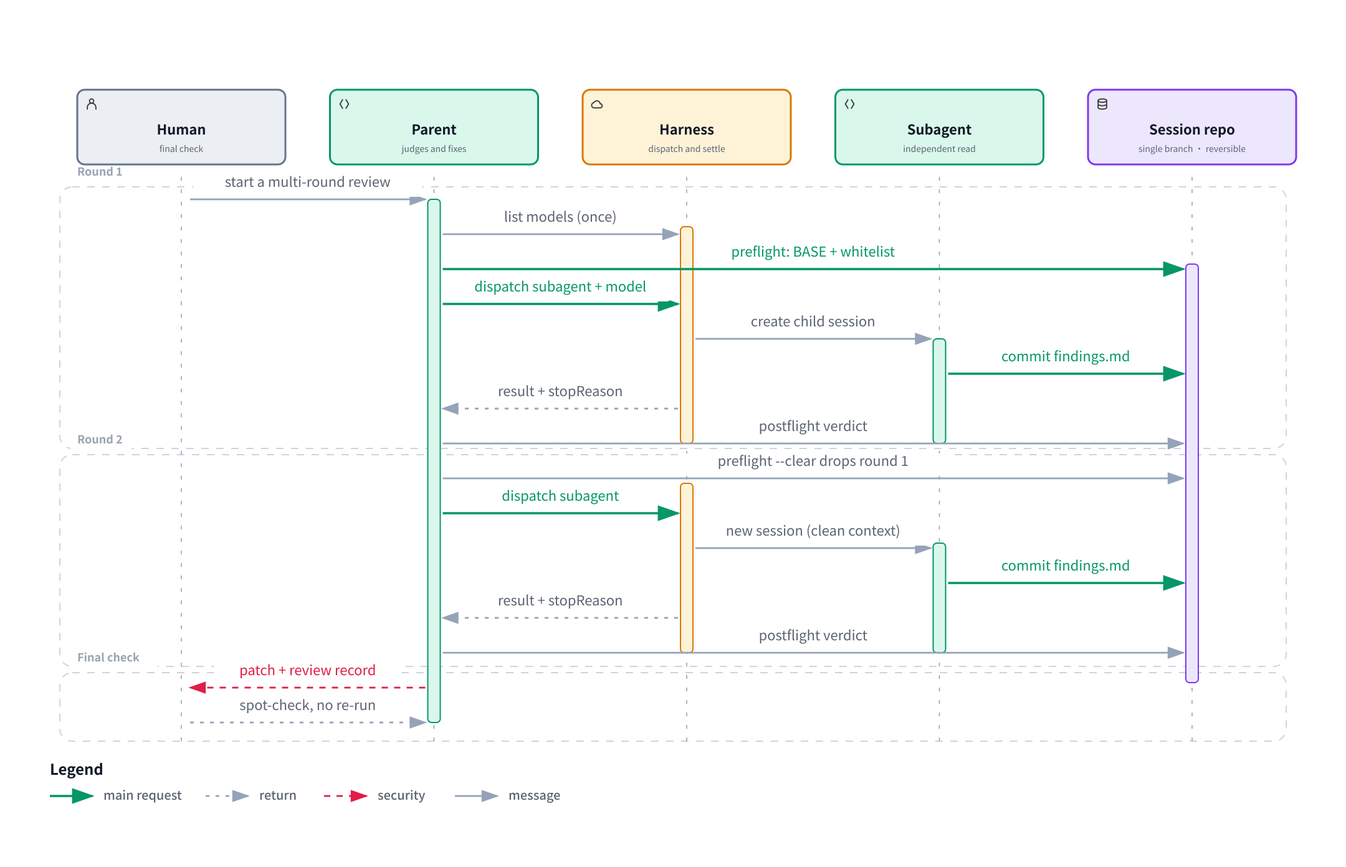
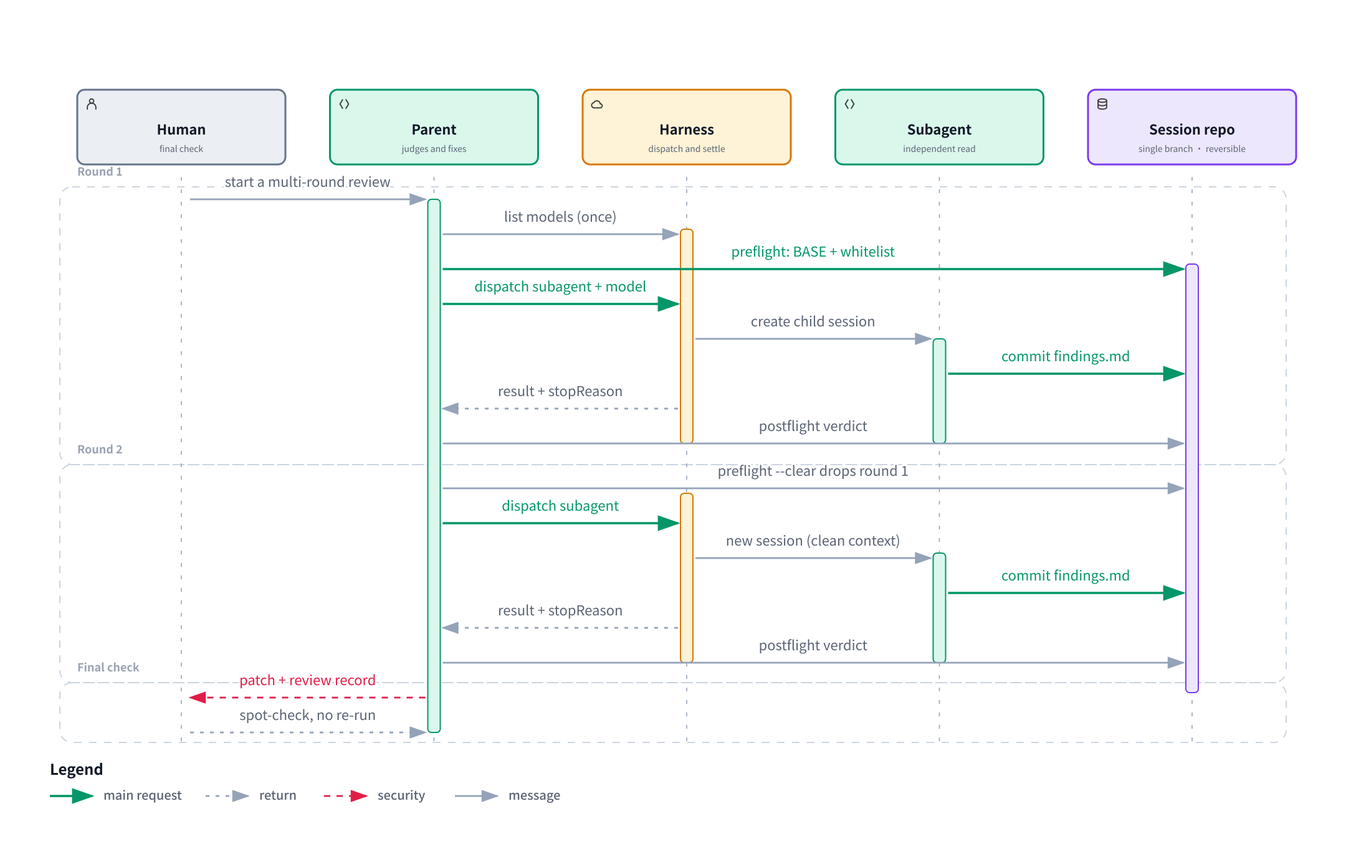
docs: keep multi-round labels clear of the segment borders
One shared boundary between lanes instead of two parallel dashes, and the
clear step moved below the boundary. Label masks are replaced by a text
halo so the dashed lifelines are no longer clipped into rectangles.

diff --git a/docs/flow-multi-zh.html b/docs/flow-multi-zh.html
@@ -5014,11 +5014,11 @@ OTHER DEALINGS IN THE FONT SOFTWARE.
         <rect width="100%" height="100%" fill="url(#grid)" />
 
         <!-- Time Segments -->
-        <rect data-graph-role="structural-frame" data-composition-frame-kind="segment" data-composition-frame-id="0" x="48" y="150" width="984" height="210" rx="10" class="c-lane" stroke-width="1"/>
+        <rect data-graph-role="structural-frame" data-composition-frame-kind="segment" data-composition-frame-id="0" x="48" y="150" width="984" height="223" rx="10" class="c-lane" stroke-width="1"/>
 
-        <rect data-graph-role="structural-frame" data-composition-frame-kind="segment" data-composition-frame-id="1" x="48" y="365" width="984" height="170" rx="10" class="c-lane" stroke-width="1"/>
+        <rect data-graph-role="structural-frame" data-composition-frame-kind="segment" data-composition-frame-id="1" x="48" y="373" width="984" height="175" rx="10" class="c-lane" stroke-width="1"/>
 
-        <rect data-graph-role="structural-frame" data-composition-frame-kind="segment" data-composition-frame-id="2" x="48" y="540" width="984" height="55" rx="10" class="c-lane" stroke-width="1"/>
+        <rect data-graph-role="structural-frame" data-composition-frame-kind="segment" data-composition-frame-id="2" x="48" y="548" width="984" height="48" rx="10" class="c-lane" stroke-width="1"/>
 
         <!-- Lifelines -->
         <path d="M 145.5 142 L 145.5 600" class="a-default" stroke-width="0.8" stroke-dasharray="3,7"/>
@@ -5028,18 +5028,18 @@ OTHER DEALINGS IN THE FONT SOFTWARE.
         <path d="M 956.5 142 L 956.5 600" class="a-default" stroke-width="0.8" stroke-dasharray="3,7"/>
 
         <!-- Activations -->
-        <rect x="343.25" y="160" width="10" height="420" rx="3" class="c-mask"/>
-        <rect x="343.25" y="160" width="10" height="420" rx="3" class="c-backend" stroke-width="1"/>
-        <rect x="546" y="182" width="10" height="174" rx="3" class="c-mask"/>
-        <rect x="546" y="182" width="10" height="174" rx="3" class="c-cloud" stroke-width="1"/>
-        <rect x="546" y="388" width="10" height="136" rx="3" class="c-mask"/>
-        <rect x="546" y="388" width="10" height="136" rx="3" class="c-cloud" stroke-width="1"/>
+        <rect x="343.25" y="160" width="10" height="428" rx="3" class="c-mask"/>
+        <rect x="343.25" y="160" width="10" height="428" rx="3" class="c-backend" stroke-width="1"/>
+        <rect x="546" y="184" width="10" height="172" rx="3" class="c-mask"/>
+        <rect x="546" y="184" width="10" height="172" rx="3" class="c-cloud" stroke-width="1"/>
+        <rect x="546" y="396" width="10" height="136" rx="3" class="c-mask"/>
+        <rect x="546" y="396" width="10" height="136" rx="3" class="c-cloud" stroke-width="1"/>
         <rect x="748.75" y="272" width="10" height="84" rx="3" class="c-mask"/>
         <rect x="748.75" y="272" width="10" height="84" rx="3" class="c-backend" stroke-width="1"/>
-        <rect x="748.75" y="436" width="10" height="88" rx="3" class="c-mask"/>
-        <rect x="748.75" y="436" width="10" height="88" rx="3" class="c-backend" stroke-width="1"/>
-        <rect x="951.5" y="212" width="10" height="336" rx="3" class="c-mask"/>
-        <rect x="951.5" y="212" width="10" height="336" rx="3" class="c-database" stroke-width="1"/>
+        <rect x="748.75" y="444" width="10" height="88" rx="3" class="c-mask"/>
+        <rect x="748.75" y="444" width="10" height="88" rx="3" class="c-backend" stroke-width="1"/>
+        <rect x="951.5" y="212" width="10" height="344" rx="3" class="c-mask"/>
+        <rect x="951.5" y="212" width="10" height="344" rx="3" class="c-database" stroke-width="1"/>
 
         <!-- Messages -->
         <g data-edge-from="human" data-edge-to="parent" data-edge-label="提任务：多轮审查" data-edge-key="0" data-edge-id="kickoff">
@@ -5107,66 +5107,66 @@ OTHER DEALINGS IN THE FONT SOFTWARE.
         </g>
 
         <g data-edge-from="parent" data-edge-to="repo" data-edge-label="preflight --clear：清掉上一轮" data-edge-key="8" data-edge-id="clear">
-          <path data-composition-edge-from="parent" data-composition-edge-to="repo" data-composition-edge-id="clear" data-composition-points="355.25,384;949.5,384" d="M 355.25 384 L 949.5 384" class="a-default" stroke-width="1.4" marker-end="url(#arrowhead)"/>
+          <path data-composition-edge-from="parent" data-composition-edge-to="repo" data-composition-edge-id="clear" data-composition-points="355.25,392;949.5,392" d="M 355.25 392 L 949.5 392" class="a-default" stroke-width="1.4" marker-end="url(#arrowhead)"/>
         <g data-detail="context">
-          <rect x="550.675" y="364" width="203.39999999999998" height="18" rx="3" class="c-mask"/>
-          <text x="652.375" y="374" class="t-muted" font-size="11" text-anchor="middle">preflight --clear：清掉上一轮</text>
+          <rect x="550.675" y="372" width="203.39999999999998" height="18" rx="3" class="c-mask"/>
+          <text x="652.375" y="382" class="t-muted" font-size="11" text-anchor="middle">preflight --clear：清掉上一轮</text>
         </g>
         </g>
 
         <g data-edge-from="parent" data-edge-to="harness" data-edge-label="派发 subagent" data-edge-key="9" data-edge-id="dispatch-2">
-          <path data-composition-edge-from="parent" data-composition-edge-to="harness" data-composition-edge-id="dispatch-2" data-composition-points="355.25,412;544,412" d="M 355.25 412 L 544 412" class="a-emphasis" stroke-width="1.8" marker-end="url(#arrowhead-emphasis)"/>
+          <path data-composition-edge-from="parent" data-composition-edge-to="harness" data-composition-edge-id="dispatch-2" data-composition-points="355.25,420;544,420" d="M 355.25 420 L 544 420" class="a-emphasis" stroke-width="1.8" marker-end="url(#arrowhead-emphasis)"/>
         <g data-detail="context">
-          <rect x="400.725" y="392" width="97.8" height="18" rx="3" class="c-mask"/>
-          <text x="449.625" y="402" class="t-edge-emphasis" font-size="11" text-anchor="middle">派发 subagent</text>
+          <rect x="400.725" y="400" width="97.8" height="18" rx="3" class="c-mask"/>
+          <text x="449.625" y="410" class="t-edge-emphasis" font-size="11" text-anchor="middle">派发 subagent</text>
         </g>
         </g>
 
         <g data-edge-from="harness" data-edge-to="child" data-edge-label="新子会话（干净上下文）" data-edge-key="10" data-edge-id="session-2">
-          <path data-composition-edge-from="harness" data-composition-edge-to="child" data-composition-edge-id="session-2" data-composition-points="558,440;746.75,440" d="M 558 440 L 746.75 440" class="a-default" stroke-width="1.4" marker-end="url(#arrowhead)"/>
+          <path data-composition-edge-from="harness" data-composition-edge-to="child" data-composition-edge-id="session-2" data-composition-points="558,448;746.75,448" d="M 558 448 L 746.75 448" class="a-default" stroke-width="1.4" marker-end="url(#arrowhead)"/>
         <g data-detail="context">
-          <rect x="573.775" y="420" width="157.2" height="18" rx="3" class="c-mask"/>
-          <text x="652.375" y="430" class="t-muted" font-size="11" text-anchor="middle">新子会话（干净上下文）</text>
+          <rect x="573.775" y="428" width="157.2" height="18" rx="3" class="c-mask"/>
+          <text x="652.375" y="438" class="t-muted" font-size="11" text-anchor="middle">新子会话（干净上下文）</text>
         </g>
         </g>
 
         <g data-edge-from="child" data-edge-to="repo" data-edge-label="提交 findings.md" data-edge-key="11" data-edge-id="commit-2">
-          <path data-composition-edge-from="child" data-composition-edge-to="repo" data-composition-edge-id="commit-2" data-composition-points="760.75,468;949.5,468" d="M 760.75 468 L 949.5 468" class="a-emphasis" stroke-width="1.8" marker-end="url(#arrowhead-emphasis)"/>
+          <path data-composition-edge-from="child" data-composition-edge-to="repo" data-composition-edge-id="commit-2" data-composition-points="760.75,476;949.5,476" d="M 760.75 476 L 949.5 476" class="a-emphasis" stroke-width="1.8" marker-end="url(#arrowhead-emphasis)"/>
         <g data-detail="context">
-          <rect x="796.325" y="448" width="117.6" height="18" rx="3" class="c-mask"/>
-          <text x="855.125" y="458" class="t-edge-emphasis" font-size="11" text-anchor="middle">提交 findings.md</text>
+          <rect x="796.325" y="456" width="117.6" height="18" rx="3" class="c-mask"/>
+          <text x="855.125" y="466" class="t-edge-emphasis" font-size="11" text-anchor="middle">提交 findings.md</text>
         </g>
         </g>
 
         <g data-edge-from="harness" data-edge-to="parent" data-edge-label="结果 + stopReason" data-edge-key="12" data-edge-id="settled-2">
-          <path data-composition-edge-from="harness" data-composition-edge-to="parent" data-composition-edge-id="settled-2" data-composition-points="544,496;355.25,496" d="M 544 496 L 355.25 496" class="a-default" stroke-width="1.4" stroke-dasharray="3,5" marker-end="url(#arrowhead)"/>
+          <path data-composition-edge-from="harness" data-composition-edge-to="parent" data-composition-edge-id="settled-2" data-composition-points="544,504;355.25,504" d="M 544 504 L 355.25 504" class="a-default" stroke-width="1.4" stroke-dasharray="3,5" marker-end="url(#arrowhead)"/>
         <g data-detail="context">
-          <rect x="387.525" y="476" width="124.19999999999999" height="18" rx="3" class="c-mask"/>
-          <text x="449.625" y="486" class="t-muted" font-size="11" text-anchor="middle">结果 + stopReason</text>
+          <rect x="387.525" y="484" width="124.19999999999999" height="18" rx="3" class="c-mask"/>
+          <text x="449.625" y="494" class="t-muted" font-size="11" text-anchor="middle">结果 + stopReason</text>
         </g>
         </g>
 
         <g data-edge-from="parent" data-edge-to="repo" data-edge-label="postflight 判定" data-edge-key="13" data-edge-id="postflight-2">
-          <path data-composition-edge-from="parent" data-composition-edge-to="repo" data-composition-edge-id="postflight-2" data-composition-points="355.25,524;949.5,524" d="M 355.25 524 L 949.5 524" class="a-default" stroke-width="1.4" marker-end="url(#arrowhead)"/>
+          <path data-composition-edge-from="parent" data-composition-edge-to="repo" data-composition-edge-id="postflight-2" data-composition-points="355.25,532;949.5,532" d="M 355.25 532 L 949.5 532" class="a-default" stroke-width="1.4" marker-end="url(#arrowhead)"/>
         <g data-detail="context">
-          <rect x="596.875" y="504" width="111" height="18" rx="3" class="c-mask"/>
-          <text x="652.375" y="514" class="t-muted" font-size="11" text-anchor="middle">postflight 判定</text>
+          <rect x="596.875" y="512" width="111" height="18" rx="3" class="c-mask"/>
+          <text x="652.375" y="522" class="t-muted" font-size="11" text-anchor="middle">postflight 判定</text>
         </g>
         </g>
 
         <g data-edge-from="parent" data-edge-to="human" data-edge-label="交付：patch + 审查记录" data-edge-key="14" data-edge-id="handoff">
-          <path data-composition-edge-from="parent" data-composition-edge-to="human" data-composition-edge-id="handoff" data-composition-points="341.25,552;152.5,552" d="M 341.25 552 L 152.5 552" class="a-security" stroke-width="1.4" marker-end="url(#arrowhead-security)"/>
+          <path data-composition-edge-from="parent" data-composition-edge-to="human" data-composition-edge-id="handoff" data-composition-points="341.25,560;152.5,560" d="M 341.25 560 L 152.5 560" class="a-security" stroke-width="1.4" marker-end="url(#arrowhead-security)"/>
         <g data-detail="context">
-          <rect x="168.275" y="532" width="157.2" height="18" rx="3" class="c-mask"/>
-          <text x="246.875" y="542" class="t-edge-security" font-size="11" text-anchor="middle">交付：patch + 审查记录</text>
+          <rect x="168.275" y="540" width="157.2" height="18" rx="3" class="c-mask"/>
+          <text x="246.875" y="550" class="t-edge-security" font-size="11" text-anchor="middle">交付：patch + 审查记录</text>
         </g>
         </g>
 
         <g data-edge-from="human" data-edge-to="parent" data-edge-label="抽样复核，不重跑" data-edge-key="15" data-edge-id="review">
-          <path data-composition-edge-from="human" data-composition-edge-to="parent" data-composition-edge-id="review" data-composition-points="152.5,580;341.25,580" d="M 152.5 580 L 341.25 580" class="a-default" stroke-width="1.4" stroke-dasharray="3,5" marker-end="url(#arrowhead)"/>
+          <path data-composition-edge-from="human" data-composition-edge-to="parent" data-composition-edge-id="review" data-composition-points="152.5,588;341.25,588" d="M 152.5 588 L 341.25 588" class="a-default" stroke-width="1.4" stroke-dasharray="3,5" marker-end="url(#arrowhead)"/>
         <g data-detail="context">
-          <rect x="188.075" y="560" width="117.6" height="18" rx="3" class="c-mask"/>
-          <text x="246.875" y="570" class="t-muted" font-size="11" text-anchor="middle">抽样复核，不重跑</text>
+          <rect x="188.075" y="568" width="117.6" height="18" rx="3" class="c-mask"/>
+          <text x="246.875" y="578" class="t-muted" font-size="11" text-anchor="middle">抽样复核，不重跑</text>
         </g>
         </g>
 
@@ -5176,12 +5176,12 @@ OTHER DEALINGS IN THE FONT SOFTWARE.
           <text x="62" y="141" class="t-dim" font-size="9" font-weight="600">第 1 轮</text>
         </g>
         <g data-graph-role="segment-label" data-segment-id="1">
-          <rect x="56" y="343" width="50.4" height="18" rx="3" class="c-mask"/>
-          <text x="62" y="356" class="t-dim" font-size="9" font-weight="600">第 2 轮</text>
+          <rect x="56" y="351" width="50.4" height="18" rx="3" class="c-mask"/>
+          <text x="62" y="364" class="t-dim" font-size="9" font-weight="600">第 2 轮</text>
         </g>
         <g data-graph-role="segment-label" data-segment-id="2">
-          <rect x="56" y="518" width="55.6" height="18" rx="3" class="c-mask"/>
-          <text x="62" y="531" class="t-dim" font-size="9" font-weight="600">回来复核</text>
+          <rect x="56" y="526" width="55.6" height="18" rx="3" class="c-mask"/>
+          <text x="62" y="539" class="t-dim" font-size="9" font-weight="600">回来复核</text>
         </g>
 
         <!-- Participants -->

diff --git a/docs/flow-multi-en.html b/docs/flow-multi-en.html
@@ -5014,11 +5014,11 @@ OTHER DEALINGS IN THE FONT SOFTWARE.
         <rect width="100%" height="100%" fill="url(#grid)" />
 
         <!-- Time Segments -->
-        <rect data-graph-role="structural-frame" data-composition-frame-kind="segment" data-composition-frame-id="0" x="48" y="150" width="984" height="210" rx="10" class="c-lane" stroke-width="1"/>
+        <rect data-graph-role="structural-frame" data-composition-frame-kind="segment" data-composition-frame-id="0" x="48" y="150" width="984" height="223" rx="10" class="c-lane" stroke-width="1"/>
 
-        <rect data-graph-role="structural-frame" data-composition-frame-kind="segment" data-composition-frame-id="1" x="48" y="365" width="984" height="170" rx="10" class="c-lane" stroke-width="1"/>
+        <rect data-graph-role="structural-frame" data-composition-frame-kind="segment" data-composition-frame-id="1" x="48" y="373" width="984" height="175" rx="10" class="c-lane" stroke-width="1"/>
 
-        <rect data-graph-role="structural-frame" data-composition-frame-kind="segment" data-composition-frame-id="2" x="48" y="540" width="984" height="55" rx="10" class="c-lane" stroke-width="1"/>
+        <rect data-graph-role="structural-frame" data-composition-frame-kind="segment" data-composition-frame-id="2" x="48" y="548" width="984" height="48" rx="10" class="c-lane" stroke-width="1"/>
 
         <!-- Lifelines -->
         <path d="M 145.5 142 L 145.5 600" class="a-default" stroke-width="0.8" stroke-dasharray="3,7"/>
@@ -5028,18 +5028,18 @@ OTHER DEALINGS IN THE FONT SOFTWARE.
         <path d="M 956.5 142 L 956.5 600" class="a-default" stroke-width="0.8" stroke-dasharray="3,7"/>
 
         <!-- Activations -->
-        <rect x="343.25" y="160" width="10" height="420" rx="3" class="c-mask"/>
-        <rect x="343.25" y="160" width="10" height="420" rx="3" class="c-backend" stroke-width="1"/>
-        <rect x="546" y="182" width="10" height="174" rx="3" class="c-mask"/>
-        <rect x="546" y="182" width="10" height="174" rx="3" class="c-cloud" stroke-width="1"/>
-        <rect x="546" y="388" width="10" height="136" rx="3" class="c-mask"/>
-        <rect x="546" y="388" width="10" height="136" rx="3" class="c-cloud" stroke-width="1"/>
+        <rect x="343.25" y="160" width="10" height="428" rx="3" class="c-mask"/>
+        <rect x="343.25" y="160" width="10" height="428" rx="3" class="c-backend" stroke-width="1"/>
+        <rect x="546" y="184" width="10" height="172" rx="3" class="c-mask"/>
+        <rect x="546" y="184" width="10" height="172" rx="3" class="c-cloud" stroke-width="1"/>
+        <rect x="546" y="396" width="10" height="136" rx="3" class="c-mask"/>
+        <rect x="546" y="396" width="10" height="136" rx="3" class="c-cloud" stroke-width="1"/>
         <rect x="748.75" y="272" width="10" height="84" rx="3" class="c-mask"/>
         <rect x="748.75" y="272" width="10" height="84" rx="3" class="c-backend" stroke-width="1"/>
-        <rect x="748.75" y="436" width="10" height="88" rx="3" class="c-mask"/>
-        <rect x="748.75" y="436" width="10" height="88" rx="3" class="c-backend" stroke-width="1"/>
-        <rect x="951.5" y="212" width="10" height="336" rx="3" class="c-mask"/>
-        <rect x="951.5" y="212" width="10" height="336" rx="3" class="c-database" stroke-width="1"/>
+        <rect x="748.75" y="444" width="10" height="88" rx="3" class="c-mask"/>
+        <rect x="748.75" y="444" width="10" height="88" rx="3" class="c-backend" stroke-width="1"/>
+        <rect x="951.5" y="212" width="10" height="344" rx="3" class="c-mask"/>
+        <rect x="951.5" y="212" width="10" height="344" rx="3" class="c-database" stroke-width="1"/>
 
         <!-- Messages -->
         <g data-edge-from="human" data-edge-to="parent" data-edge-label="start a multi-round review" data-edge-key="0" data-edge-id="kickoff">
@@ -5107,66 +5107,66 @@ OTHER DEALINGS IN THE FONT SOFTWARE.
         </g>
 
         <g data-edge-from="parent" data-edge-to="repo" data-edge-label="preflight --clear drops round 1" data-edge-key="8" data-edge-id="clear">
-          <path data-composition-edge-from="parent" data-composition-edge-to="repo" data-composition-edge-id="clear" data-composition-points="355.25,384;949.5,384" d="M 355.25 384 L 949.5 384" class="a-default" stroke-width="1.4" marker-end="url(#arrowhead)"/>
+          <path data-composition-edge-from="parent" data-composition-edge-to="repo" data-composition-edge-id="clear" data-composition-points="355.25,392;949.5,392" d="M 355.25 392 L 949.5 392" class="a-default" stroke-width="1.4" marker-end="url(#arrowhead)"/>
         <g data-detail="context">
-          <rect x="544.075" y="364" width="216.6" height="18" rx="3" class="c-mask"/>
-          <text x="652.375" y="374" class="t-muted" font-size="11" text-anchor="middle">preflight --clear drops round 1</text>
+          <rect x="544.075" y="372" width="216.6" height="18" rx="3" class="c-mask"/>
+          <text x="652.375" y="382" class="t-muted" font-size="11" text-anchor="middle">preflight --clear drops round 1</text>
         </g>
         </g>
 
         <g data-edge-from="parent" data-edge-to="harness" data-edge-label="dispatch subagent" data-edge-key="9" data-edge-id="dispatch-2">
-          <path data-composition-edge-from="parent" data-composition-edge-to="harness" data-composition-edge-id="dispatch-2" data-composition-points="355.25,412;544,412" d="M 355.25 412 L 544 412" class="a-emphasis" stroke-width="1.8" marker-end="url(#arrowhead-emphasis)"/>
+          <path data-composition-edge-from="parent" data-composition-edge-to="harness" data-composition-edge-id="dispatch-2" data-composition-points="355.25,420;544,420" d="M 355.25 420 L 544 420" class="a-emphasis" stroke-width="1.8" marker-end="url(#arrowhead-emphasis)"/>
         <g data-detail="context">
-          <rect x="387.525" y="392" width="124.19999999999999" height="18" rx="3" class="c-mask"/>
-          <text x="449.625" y="402" class="t-edge-emphasis" font-size="11" text-anchor="middle">dispatch subagent</text>
+          <rect x="387.525" y="400" width="124.19999999999999" height="18" rx="3" class="c-mask"/>
+          <text x="449.625" y="410" class="t-edge-emphasis" font-size="11" text-anchor="middle">dispatch subagent</text>
         </g>
         </g>
 
         <g data-edge-from="harness" data-edge-to="child" data-edge-label="new session (clean context)" data-edge-key="10" data-edge-id="session-2">
-          <path data-composition-edge-from="harness" data-composition-edge-to="child" data-composition-edge-id="session-2" data-composition-points="558,440;746.75,440" d="M 558 440 L 746.75 440" class="a-default" stroke-width="1.4" marker-end="url(#arrowhead)"/>
+          <path data-composition-edge-from="harness" data-composition-edge-to="child" data-composition-edge-id="session-2" data-composition-points="558,448;746.75,448" d="M 558 448 L 746.75 448" class="a-default" stroke-width="1.4" marker-end="url(#arrowhead)"/>
         <g data-detail="context">
-          <rect x="557.275" y="420" width="190.2" height="18" rx="3" class="c-mask"/>
-          <text x="652.375" y="430" class="t-muted" font-size="11" text-anchor="middle">new session (clean context)</text>
+          <rect x="557.275" y="428" width="190.2" height="18" rx="3" class="c-mask"/>
+          <text x="652.375" y="438" class="t-muted" font-size="11" text-anchor="middle">new session (clean context)</text>
         </g>
         </g>
 
         <g data-edge-from="child" data-edge-to="repo" data-edge-label="commit findings.md" data-edge-key="11" data-edge-id="commit-2">
-          <path data-composition-edge-from="child" data-composition-edge-to="repo" data-composition-edge-id="commit-2" data-composition-points="760.75,468;949.5,468" d="M 760.75 468 L 949.5 468" class="a-emphasis" stroke-width="1.8" marker-end="url(#arrowhead-emphasis)"/>
+          <path data-composition-edge-from="child" data-composition-edge-to="repo" data-composition-edge-id="commit-2" data-composition-points="760.75,476;949.5,476" d="M 760.75 476 L 949.5 476" class="a-emphasis" stroke-width="1.8" marker-end="url(#arrowhead-emphasis)"/>
         <g data-detail="context">
-          <rect x="789.725" y="448" width="130.8" height="18" rx="3" class="c-mask"/>
-          <text x="855.125" y="458" class="t-edge-emphasis" font-size="11" text-anchor="middle">commit findings.md</text>
+          <rect x="789.725" y="456" width="130.8" height="18" rx="3" class="c-mask"/>
+          <text x="855.125" y="466" class="t-edge-emphasis" font-size="11" text-anchor="middle">commit findings.md</text>
         </g>
         </g>
 
         <g data-edge-from="harness" data-edge-to="parent" data-edge-label="result + stopReason" data-edge-key="12" data-edge-id="settled-2">
-          <path data-composition-edge-from="harness" data-composition-edge-to="parent" data-composition-edge-id="settled-2" data-composition-points="544,496;355.25,496" d="M 544 496 L 355.25 496" class="a-default" stroke-width="1.4" stroke-dasharray="3,5" marker-end="url(#arrowhead)"/>
+          <path data-composition-edge-from="harness" data-composition-edge-to="parent" data-composition-edge-id="settled-2" data-composition-points="544,504;355.25,504" d="M 544 504 L 355.25 504" class="a-default" stroke-width="1.4" stroke-dasharray="3,5" marker-end="url(#arrowhead)"/>
         <g data-detail="context">
-          <rect x="380.925" y="476" width="137.39999999999998" height="18" rx="3" class="c-mask"/>
-          <text x="449.625" y="486" class="t-muted" font-size="11" text-anchor="middle">result + stopReason</text>
+          <rect x="380.925" y="484" width="137.39999999999998" height="18" rx="3" class="c-mask"/>
+          <text x="449.625" y="494" class="t-muted" font-size="11" text-anchor="middle">result + stopReason</text>
         </g>
         </g>
 
         <g data-edge-from="parent" data-edge-to="repo" data-edge-label="postflight verdict" data-edge-key="13" data-edge-id="postflight-2">
-          <path data-composition-edge-from="parent" data-composition-edge-to="repo" data-composition-edge-id="postflight-2" data-composition-points="355.25,524;949.5,524" d="M 355.25 524 L 949.5 524" class="a-default" stroke-width="1.4" marker-end="url(#arrowhead)"/>
+          <path data-composition-edge-from="parent" data-composition-edge-to="repo" data-composition-edge-id="postflight-2" data-composition-points="355.25,532;949.5,532" d="M 355.25 532 L 949.5 532" class="a-default" stroke-width="1.4" marker-end="url(#arrowhead)"/>
         <g data-detail="context">
-          <rect x="586.975" y="504" width="130.8" height="18" rx="3" class="c-mask"/>
-          <text x="652.375" y="514" class="t-muted" font-size="11" text-anchor="middle">postflight verdict</text>
+          <rect x="586.975" y="512" width="130.8" height="18" rx="3" class="c-mask"/>
+          <text x="652.375" y="522" class="t-muted" font-size="11" text-anchor="middle">postflight verdict</text>
         </g>
         </g>
 
         <g data-edge-from="parent" data-edge-to="human" data-edge-label="patch + review record" data-edge-key="14" data-edge-id="handoff">
-          <path data-composition-edge-from="parent" data-composition-edge-to="human" data-composition-edge-id="handoff" data-composition-points="341.25,552;152.5,552" d="M 341.25 552 L 152.5 552" class="a-security" stroke-width="1.4" marker-end="url(#arrowhead-security)"/>
+          <path data-composition-edge-from="parent" data-composition-edge-to="human" data-composition-edge-id="handoff" data-composition-points="341.25,560;152.5,560" d="M 341.25 560 L 152.5 560" class="a-security" stroke-width="1.4" marker-end="url(#arrowhead-security)"/>
         <g data-detail="context">
-          <rect x="171.575" y="532" width="150.6" height="18" rx="3" class="c-mask"/>
-          <text x="246.875" y="542" class="t-edge-security" font-size="11" text-anchor="middle">patch + review record</text>
+          <rect x="171.575" y="540" width="150.6" height="18" rx="3" class="c-mask"/>
+          <text x="246.875" y="550" class="t-edge-security" font-size="11" text-anchor="middle">patch + review record</text>
         </g>
         </g>
 
         <g data-edge-from="human" data-edge-to="parent" data-edge-label="spot-check, no re-run" data-edge-key="15" data-edge-id="review">
-          <path data-composition-edge-from="human" data-composition-edge-to="parent" data-composition-edge-id="review" data-composition-points="152.5,580;341.25,580" d="M 152.5 580 L 341.25 580" class="a-default" stroke-width="1.4" stroke-dasharray="3,5" marker-end="url(#arrowhead)"/>
+          <path data-composition-edge-from="human" data-composition-edge-to="parent" data-composition-edge-id="review" data-composition-points="152.5,588;341.25,588" d="M 152.5 588 L 341.25 588" class="a-default" stroke-width="1.4" stroke-dasharray="3,5" marker-end="url(#arrowhead)"/>
         <g data-detail="context">
-          <rect x="171.575" y="560" width="150.6" height="18" rx="3" class="c-mask"/>
-          <text x="246.875" y="570" class="t-muted" font-size="11" text-anchor="middle">spot-check, no re-run</text>
+          <rect x="171.575" y="568" width="150.6" height="18" rx="3" class="c-mask"/>
+          <text x="246.875" y="578" class="t-muted" font-size="11" text-anchor="middle">spot-check, no re-run</text>
         </g>
         </g>
 
@@ -5176,12 +5176,12 @@ OTHER DEALINGS IN THE FONT SOFTWARE.
           <text x="62" y="141" class="t-dim" font-size="9" font-weight="600">Round 1</text>
         </g>
         <g data-graph-role="segment-label" data-segment-id="1">
-          <rect x="56" y="343" width="50.4" height="18" rx="3" class="c-mask"/>
-          <text x="62" y="356" class="t-dim" font-size="9" font-weight="600">Round 2</text>
+          <rect x="56" y="351" width="50.4" height="18" rx="3" class="c-mask"/>
+          <text x="62" y="364" class="t-dim" font-size="9" font-weight="600">Round 2</text>
         </g>
         <g data-graph-role="segment-label" data-segment-id="2">
-          <rect x="56" y="518" width="71.2" height="18" rx="3" class="c-mask"/>
-          <text x="62" y="531" class="t-dim" font-size="9" font-weight="600">Final check</text>
+          <rect x="56" y="526" width="71.2" height="18" rx="3" class="c-mask"/>
+          <text x="62" y="539" class="t-dim" font-size="9" font-weight="600">Final check</text>
         </g>
 
         <!-- Participants -->
